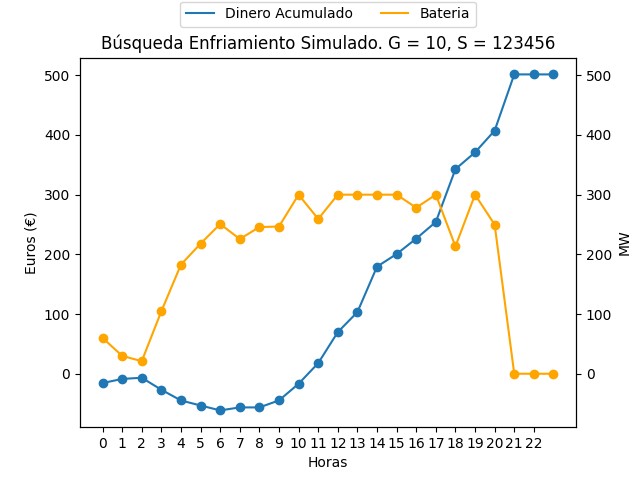
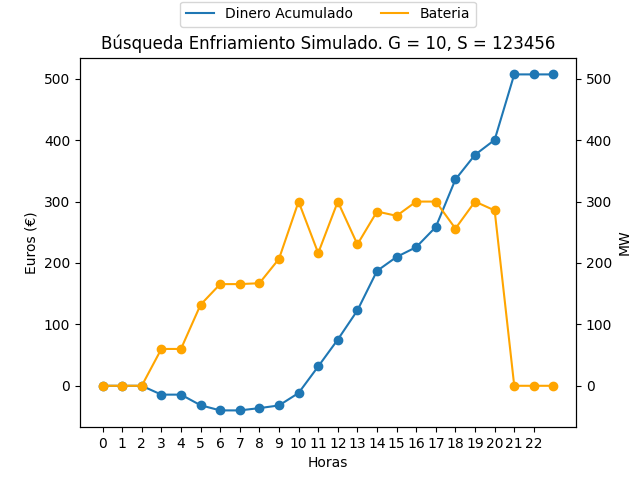
auto-commit:17/03/2023 a las 18:10:10,57

diff --git a/2º Cuatrimestre/[MByHB] Modelos Bioinspirados y Heurísticas de Búsquedas/Prácticas/Práctica 1. Búsquedas Locales/_6_Búsqueda_Enfriamiento_Simulado/busqueda_ES.py b/2º Cuatrimestre/[MByHB] Modelos Bioinspirados y Heurísticas de Búsquedas/Prácticas/Práctica 1. Búsquedas Locales/_6_Búsqueda_Enfriamiento_Simulado/busqueda_ES.py
@@ -71,7 +71,7 @@ def enfriamiento_simulado(semilla, granularidad, num_vecinos_, mu_, phi_):
     bateria_acumulada = []
     num_evaluaciones = 0
 
-    acepta = 0
+    rechaza = 0
     total = 0
 
     while k < 300:  # El algoritmo finaliza cuando se alcance un num maximo de iteraciones
@@ -85,10 +85,9 @@ def enfriamiento_simulado(semilla, granularidad, num_vecinos_, mu_, phi_):
 
             if delta < 0 or random.uniform(0, 1) < np.exp(-delta / t):  # Si es mejor la coge
                 solucion_actual = solucion_candidata
-                dinero_acumulado = dinero_hora
-                bateria_acumulada = bateria_hora
+
             else:
-                acepta += 1
+                rechaza += 1
 
             # Escogemos la mejor solucion
             num_evaluaciones += 2
@@ -102,7 +101,7 @@ def enfriamiento_simulado(semilla, granularidad, num_vecinos_, mu_, phi_):
         t = t0 / (1 + k)  # Esquema de Enfriamiento: Esquema de Cauchy
         k += 1
         temperatura.append(t)
-    return dinero_mejor, dinero_acumulado, bateria_acumulada, num_evaluaciones, temperatura, solucion_mejor, acepta/total
+    return dinero_mejor, dinero_acumulado, bateria_acumulada, num_evaluaciones, temperatura, solucion_mejor, rechaza/total
 
 
 def experimentacion_parametros():
@@ -253,7 +252,7 @@ if __name__ == "__main__":
         #experimentacion_parametros()
         graficas_enfriamiento_simulado(15, 0.2, 0.3)
     else:
-        #experimentacion_parametros()
+        experimentacion_parametros()
         graficas_enfriamiento_simulado(20, 0.3, 0.3)
         # dinero, _, _, _, _, s, _ = enfriamiento_simulado(123456, 1, 20, 0.3, 0.3)
         # print(s)

diff --git a/2º Cuatrimestre/[MByHB] Modelos Bioinspirados y Heurísticas de Búsquedas/Prácticas/Práctica 1. Búsquedas Locales/funciones_base.py b/2º Cuatrimestre/[MByHB] Modelos Bioinspirados y Heurísticas de Búsquedas/Prácticas/Práctica 1. Búsquedas Locales/funciones_base.py
@@ -139,7 +139,7 @@ def funcion_evaluacion(solucion, israndom):
 
             # Compro un porcentaje de lo que me sobra de bateria. De esta forma no podemos sobrepasar el limite de la
             # bateria en ningun momento.
-            energia_comprada = solucion[hora] / 100 * (capacidad_bateria - bateria)  # (Sale negativo)
+            energia_comprada = (solucion[hora] / 100) * (capacidad_bateria - bateria)  # (Sale negativo)
             dinero += energia_comprada * precio_compra[hora]  # Como energia_comprada es < 0 entonces se resta.
 
             bateria += -energia_comprada

diff --git a/2º Cuatrimestre/[MByHB] Modelos Bioinspirados y Heurísticas de Búsquedas/Prácticas/Práctica 1. Búsquedas Locales/_3_Búsqueda_del_Mejor/busqueda_elmejor.py b/2º Cuatrimestre/[MByHB] Modelos Bioinspirados y Heurísticas de Búsquedas/Prácticas/Práctica 1. Búsquedas Locales/_3_Búsqueda_del_Mejor/busqueda_elmejor.py
@@ -98,11 +98,12 @@ def busqueda_elmejor(semilla, granularidad):
 
         # Fin-Para
         # Si el objetivo(mejor_vecino) es mejor que objetivo(solucion_actual)
+        num_evaluaciones += 1
         if dinero_vecino > base.funcion_evaluacion(solucion_actual, isRandom)[0]:
-            num_evaluaciones += 1
             solucion_actual = mejor_vecino  # Actualiza solucion_actual
 
         # Condicion de salida
+        num_evaluaciones += 1
         if dinero_vecino <= base.funcion_evaluacion(solucion_actual, isRandom)[0]:
             break
 
